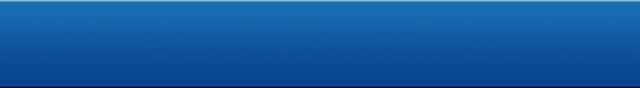
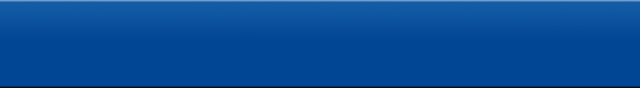
[HomeViewController]: inserita footer bar

Changed region(s): [[0.0, 0.0, 1.0, 0.0227]]

diff --git a/ClubMedici/HomeViewController.m b/ClubMedici/HomeViewController.m
@@ -26,7 +26,8 @@
     [super viewDidLoad];
     
     self.view.backgroundColor = [UIColor colorWithRed:246/255.0f green:250/255.0f blue:255/255.0f alpha:1];
-    
+    footerView.backgroundColor = [UIColor colorWithPatternImage:[UIImage imageNamed:@"reverse_nav_bar"]];
+
     self.title = @"News";
     //il controller figlio di questo controller avrà il titolo del back Button personalizzato
     UIBarButtonItem *backButton = [[UIBarButtonItem alloc] initWithTitle:@"Home" style:UIBarButtonItemStyleBordered target:nil action:nil];
